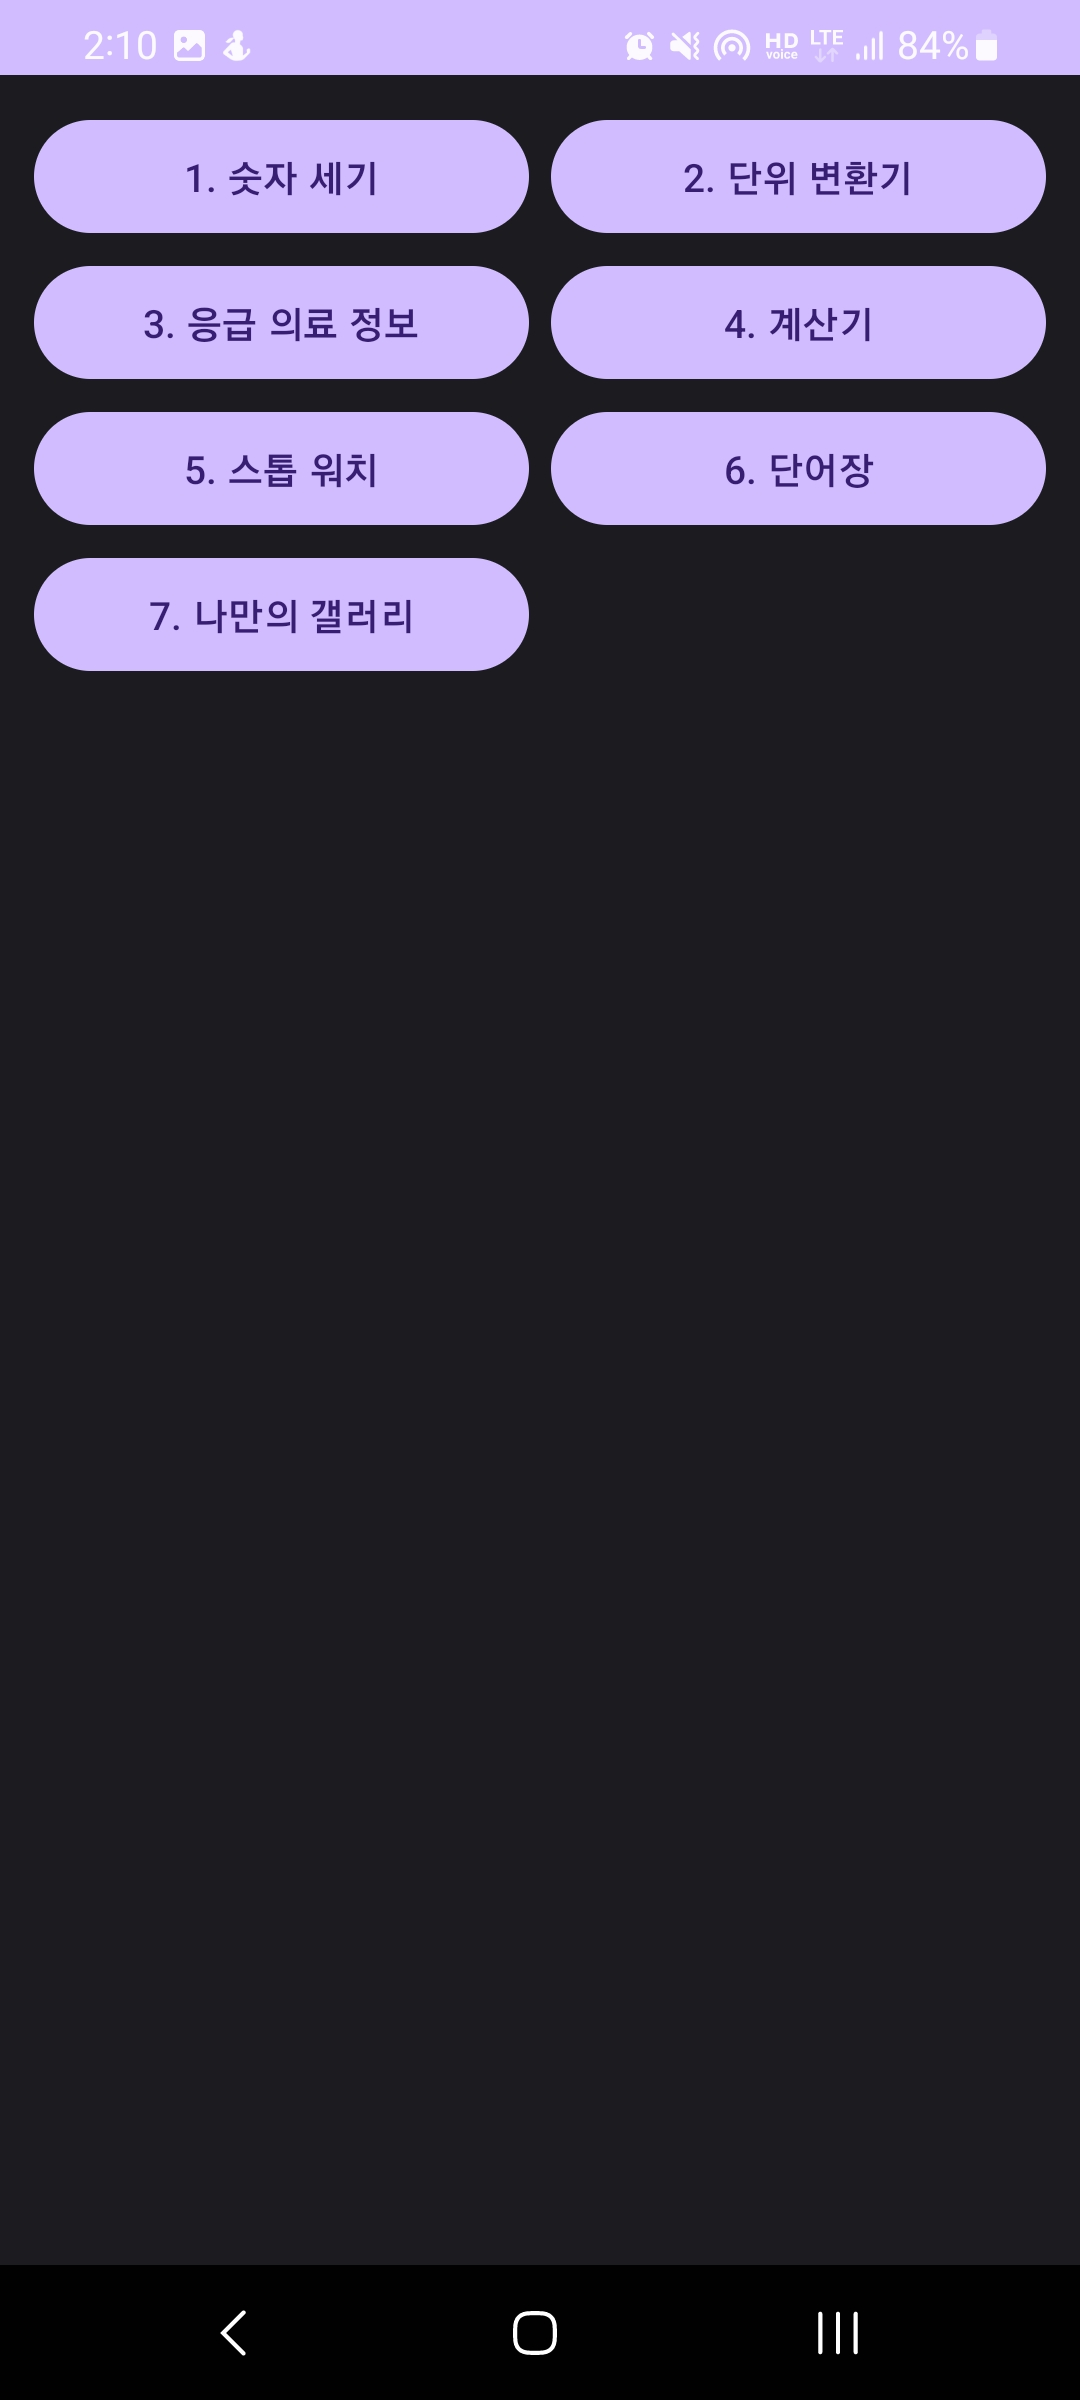
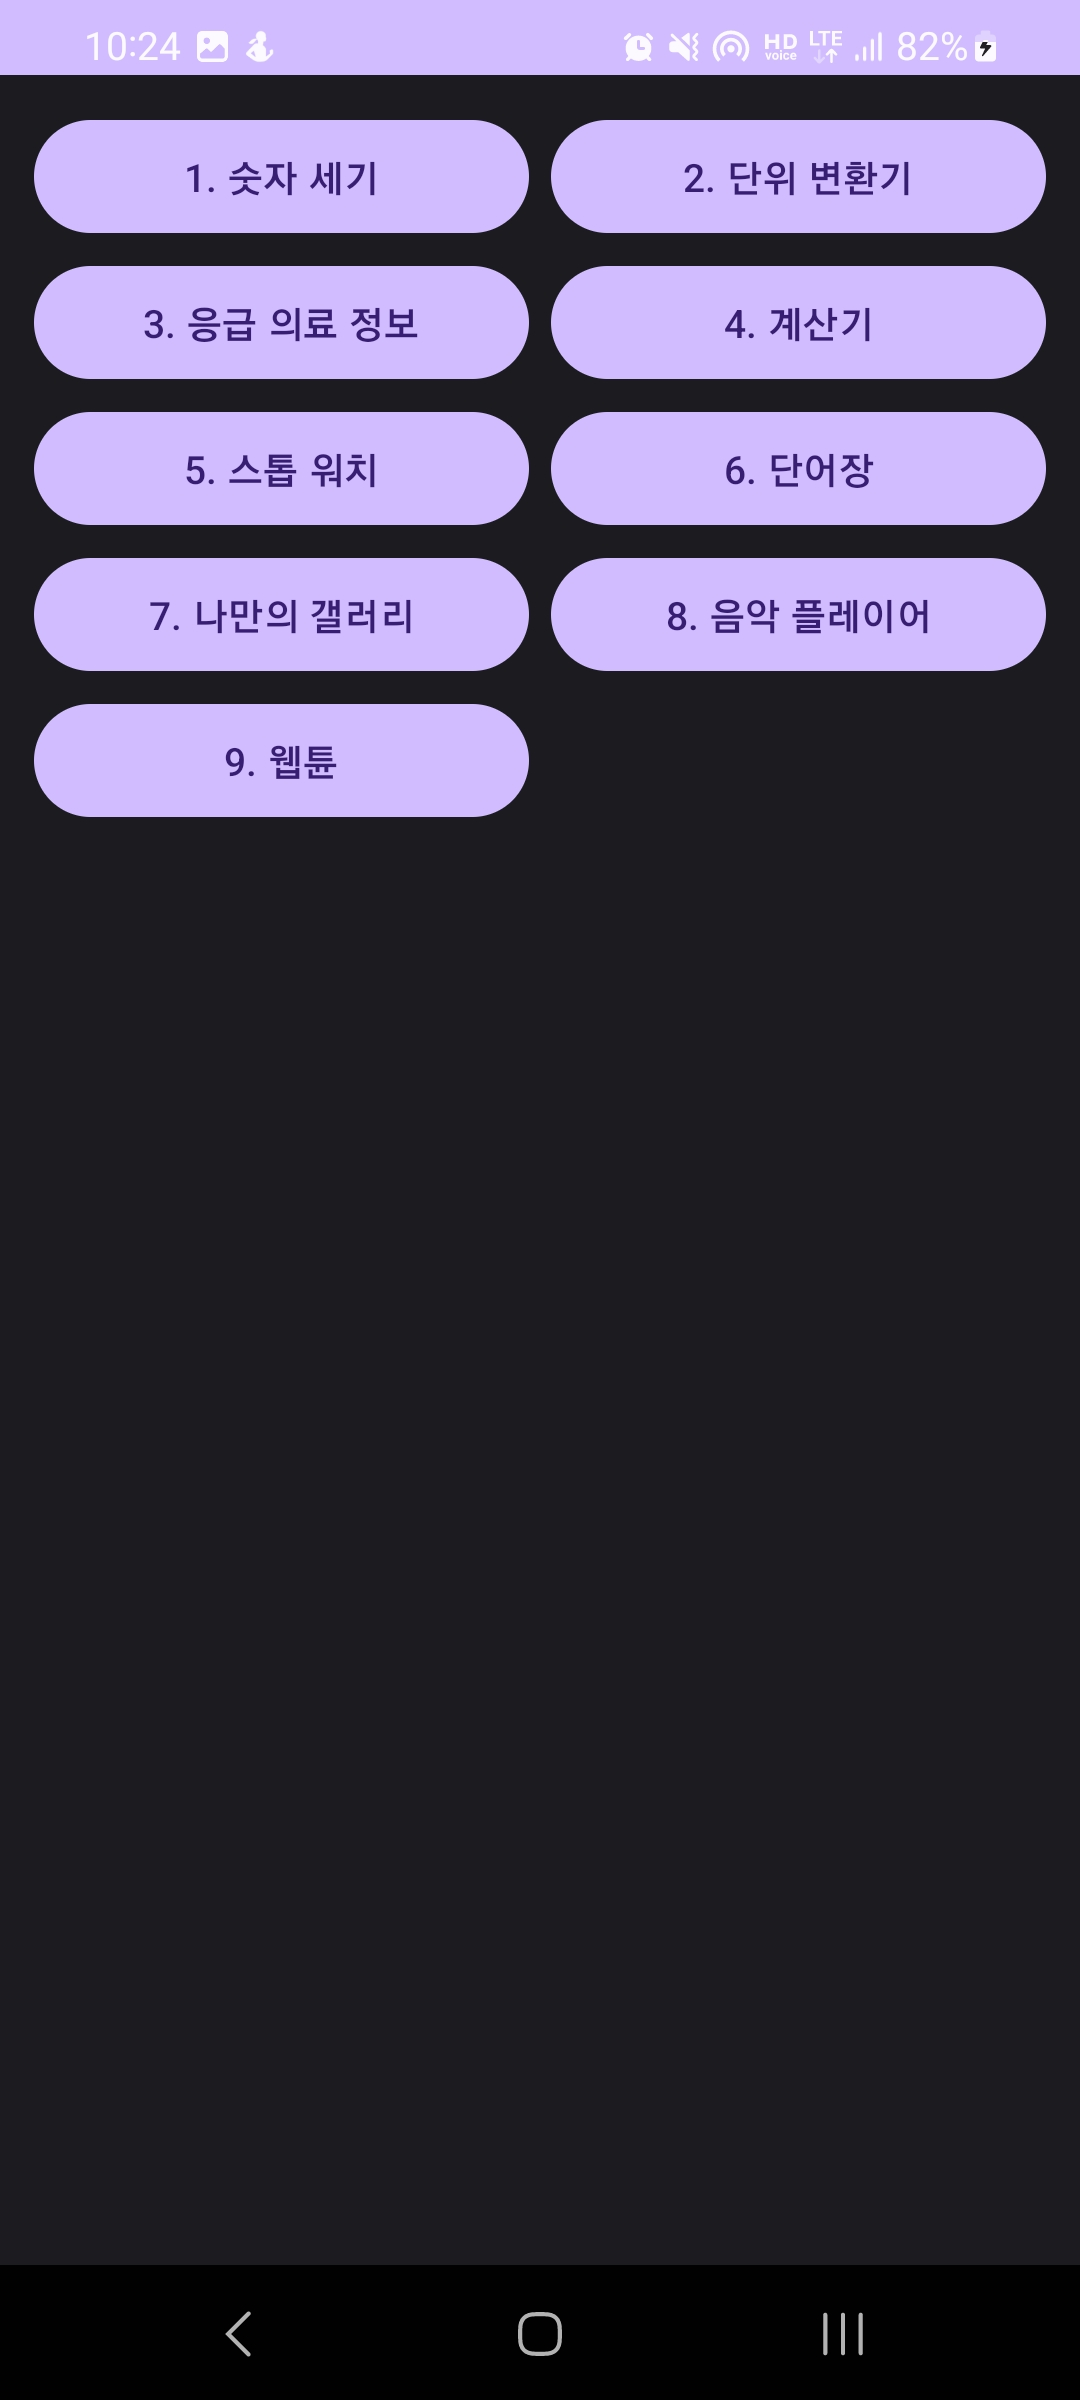
[ReadMe] - 나만의 갤러리 내용 추가

diff --git a/README.md b/README.md
@@ -54,3 +54,10 @@
 - 갤러리에 있는 이미지를 가져와서 UI 에 보여줌
 - UI 학습 : RecyclerView, ListAdapter, ViewPager2, Toolbar
 - 기능 학습 : 앱 권한 처리, 스토리지 접근 프레임워크
+
+## 8. 음악 플레이어
+<img src="https://github.com/cheonjoosung/FastCampus-Toy-Project/blob/master/image/no8.jpg?raw=true" width="180" height="400">
+
+- 백그라운드기능을 활용하여 음악을 재생
+- UI 학습 : ConstraintLayout, Notification
+- 기능 학습 : 서비스, 브로드캐스트 리시버 등을 활용하여 백그라운드로 음악 재생, MediaPlayer 활용
